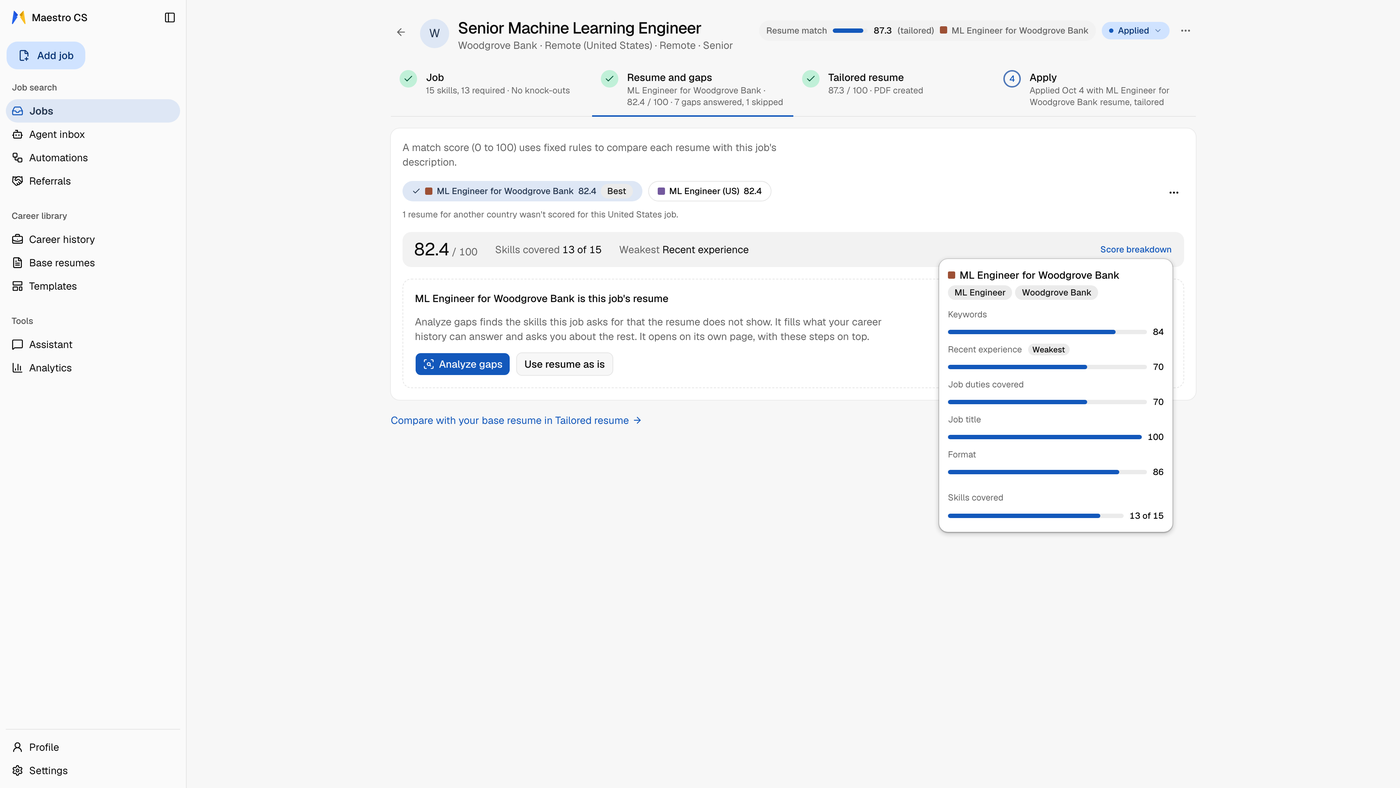
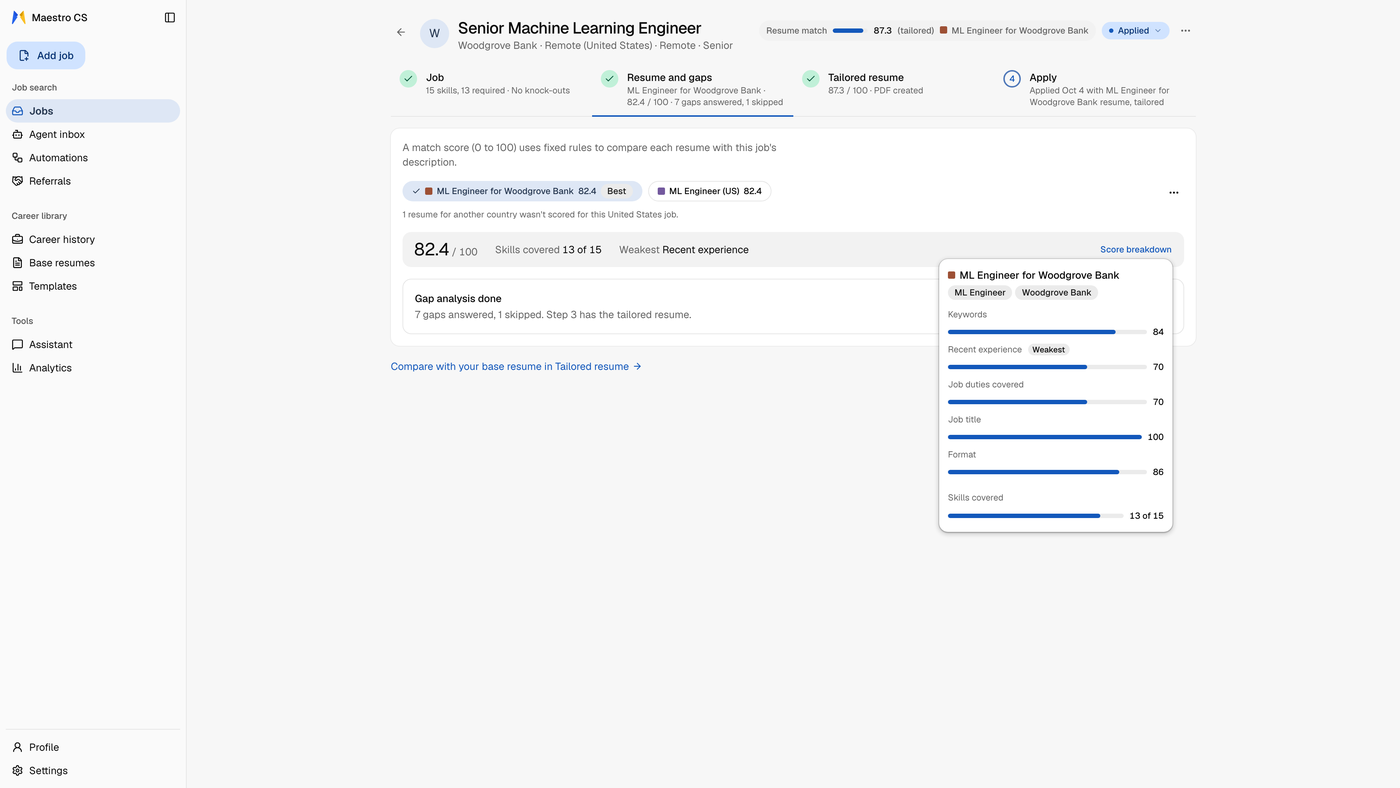
media: the score card shows 0.11.0's finished gap analysis
Recaptured on 0.11.0: step 2 reads "Gap analysis done" for a job whose
gaps were answered. The previous capture showed the stale "Analyze gaps /
Use resume as is" card that 0.11.0 fixed.

Changed region(s): [[0.2764, 0.3655, 0.6143, 0.4873], [0.2764, 0.5178, 0.4607, 0.5482]]

diff --git a/content/site.ts b/content/site.ts
@@ -190,7 +190,7 @@ export const capabilities = {
       title: "It asks instead of inventing",
       body: "Every job is scored against your base resumes when you save it. The Match score shows what a job wants that your resume doesn't show yet. Maestro asks you about each gap. If it's true, it's saved for every future application. If it isn't, it stays a gap.",
       image: "/media/job-score.png",
-      imageAlt: "A saved job's page with its four numbered steps, Job, Resume and gaps, Tailored resume and Apply, open on Resume and gaps: two base resumes as chips, both at 82.4, a note that one resume for another country wasn't scored, the Score breakdown open with five subscores and skills covered, and the Analyze gaps and Use resume as is buttons",
+      imageAlt: "A saved job's page with its four numbered steps, Job, Resume and gaps, Tailored resume and Apply, open on Resume and gaps: two base resumes as chips, both at 82.4, a note that one resume for another country wasn't scored, the Score breakdown open with five subscores and skills covered, and a "Gap analysis done" card: 7 gaps answered, 1 skipped",
       href: `${docs.using}#3-save-the-job-then-close-the-gaps`,
     },
     {
